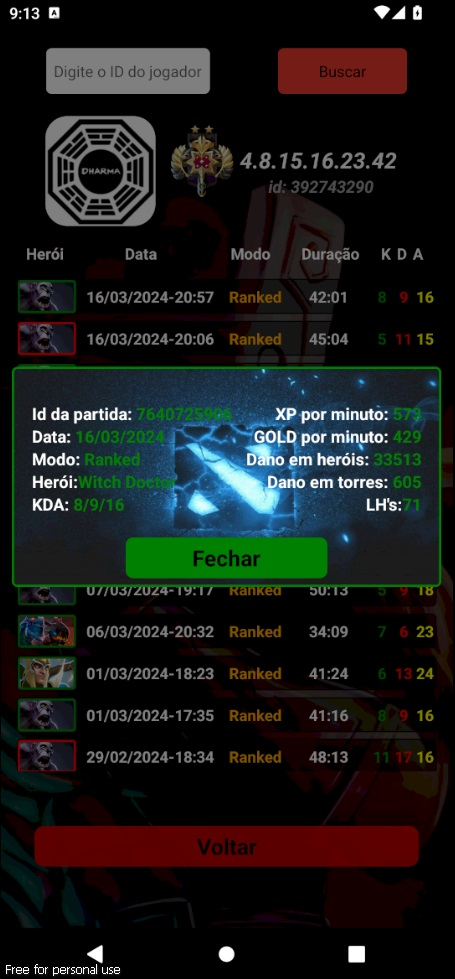
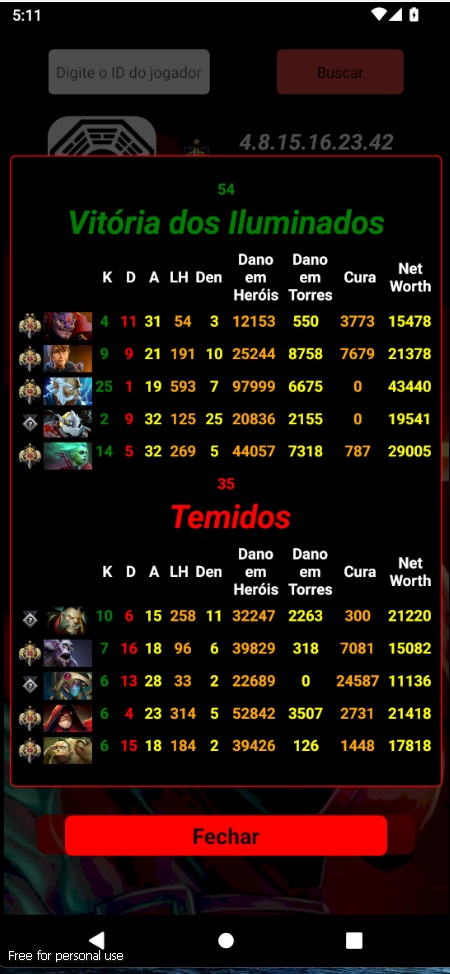
adicionando verificação na chamada da API

diff --git a/src/components/Modals/ModalDestacarPartida.tsx b/src/components/Modals/ModalDestacarPartida.tsx
@@ -11,16 +11,13 @@ const heroesList = HeroesList();
 
 export function ModalDestacarPartida(
     {
-        handleClose, id, data, modo, heroi, kills, deaths, assists, xp, gold, heroDamage, towerDamage, lhs, resultadoFinal, duracao, hora }:
+        handleClose, id, heroi, resultadoFinal }:
         {
-            handleClose(): void, id: string, data: string, modo: string, heroi: number, kills: number, deaths: number, assists: number,
-            xp: number, gold: number, heroDamage: number, towerDamage: number, lhs: number, resultadoFinal: boolean, duracao: string, hora: string
+            handleClose(): void, id: string, heroi: number, resultadoFinal: boolean,
         }) {
 
-    const heroName = HeroesList().find(hero => hero.id == heroi)?.localized_name
-
-
     const [matchDetails, setMatchDetails] = useState<MatchDetailsModel | null>(null);
+    const [loading, setLoading] = useState(true);
 
     useEffect(() => {
         async function fetchData() {
@@ -29,9 +26,11 @@ export function ModalDestacarPartida(
                 setMatchDetails(recentMatchesDataResponse ?? null);
             } catch (error) {
                 console.error('Erro ao buscar detalhes da partida:', error);
+                setTimeout(handleClose, 3000);
+            } finally {
+                setLoading(false);
             }
         }
-
         fetchData();
     }, [id]);
 
@@ -42,23 +41,23 @@ export function ModalDestacarPartida(
             <View
                 style={{ alignItems: "center" }}
             >
-                <Text style={{ color: "#fff", fontWeight: "bold" }}>{item.radiant_score}</Text>
+                <Text style={{ color: "green", fontWeight: "bold" }}>{item.radiant_score}</Text>
 
-                {item.radiant_win ? <Text style={styles.title}>Vitória dos Iluminados</Text> : <Text style={styles.title}> Iluminados</Text>}
+                {item.radiant_win ? <Text style={[styles.title, { color: "green" }]}>Vitória dos Iluminados</Text> : <Text style={[styles.title, { color: "green" }]}> Iluminados</Text>}
 
                 <View style={{ width: "20%" }} />
                 <View
                     style={styles.cabecalho}
                 >
-                    <Text style={{ color: "#fff", width: '7%', textAlign: "center", fontWeight: "bold" }}>K</Text>
-                    <Text style={{ color: "#fff", width: '7%', textAlign: "center", fontWeight: "bold" }}>D</Text>
-                    <Text style={{ color: "#fff", width: '7%', textAlign: "center", fontWeight: "bold" }}>A</Text>
-                    <Text style={{ color: "#fff", width: '8%', textAlign: "center", fontWeight: "bold" }}>LH</Text>
-                    <Text style={{ color: "#fff", width: '10%', textAlign: "center", fontWeight: "bold" }}>Den</Text>
-                    <Text style={{ color: "#fff", width: '18%', textAlign: "center", fontWeight: "bold" }}>Dano H</Text>
-                    <Text style={{ color: "#fff", width: '15%', textAlign: "center", fontWeight: "bold" }}>Dano T</Text>
-                    <Text style={{ color: "#fff", width: '15%', textAlign: "center", fontWeight: "bold" }}>Cura</Text>
-                    <Text style={{ color: "#fff", width: '15%', textAlign: "center", fontWeight: "bold" }}>Net</Text>
+                    <Text style={[styles.cabecalhoText, { width: '7%' }]}>K</Text>
+                    <Text style={[styles.cabecalhoText, { width: '7%' }]}>D</Text>
+                    <Text style={[styles.cabecalhoText, { width: '7%' }]}>A</Text>
+                    <Text style={[styles.cabecalhoText, { width: '8%' }]}>LH</Text>
+                    <Text style={[styles.cabecalhoText, { width: '10%' }]}>Den</Text>
+                    <Text style={[styles.cabecalhoText, { width: '18%' }]}>Dano Heróis</Text>
+                    <Text style={[styles.cabecalhoText, { width: '15%' }]}>Dano Torres</Text>
+                    <Text style={[styles.cabecalhoText, { width: '15%' }]}>Cura</Text>
+                    <Text style={[styles.cabecalhoText, { width: '15%' }]}>Net Worth</Text>
                 </View>
                 {radiant.map((player, index) => {
 
@@ -115,23 +114,23 @@ export function ModalDestacarPartida(
             <View
                 style={{ alignItems: "center" }}
             >
-                <Text style={{ color: "#fff", fontWeight: "bold" }}>{item.dire_score}</Text>
-                {!item.radiant_win ? <Text style={styles.title}>Vitória dos Temidos</Text> : <Text style={styles.title}> Temidos</Text>}
+                <Text style={{ color: "red", fontWeight: "bold" }}>{item.dire_score}</Text>
+                {!item.radiant_win ? <Text style={[styles.title, { color: "red" }]}>Vitória dos Temidos</Text> : <Text style={[styles.title, { color: "red" }]}> Temidos</Text>}
 
 
                 <View style={{ width: "20%" }} />
                 <View
                     style={styles.cabecalho}
                 >
-                    <Text style={{ color: "#fff", width: '7%', textAlign: "center", fontWeight: "bold" }}>K</Text>
-                    <Text style={{ color: "#fff", width: '7%', textAlign: "center", fontWeight: "bold" }}>D</Text>
-                    <Text style={{ color: "#fff", width: '7%', textAlign: "center", fontWeight: "bold" }}>A</Text>
-                    <Text style={{ color: "#fff", width: '8%', textAlign: "center", fontWeight: "bold" }}>LH</Text>
-                    <Text style={{ color: "#fff", width: '10%', textAlign: "center", fontWeight: "bold" }}>Den</Text>
-                    <Text style={{ color: "#fff", width: '18%', textAlign: "center", fontWeight: "bold" }}>Dano H</Text>
-                    <Text style={{ color: "#fff", width: '15%', textAlign: "center", fontWeight: "bold" }}>Dano T</Text>
-                    <Text style={{ color: "#fff", width: '15%', textAlign: "center", fontWeight: "bold" }}>Cura</Text>
-                    <Text style={{ color: "#fff", width: '15%', textAlign: "center", fontWeight: "bold" }}>Net</Text>
+                    <Text style={[styles.cabecalhoText, { width: '7%' }]}>K</Text>
+                    <Text style={[styles.cabecalhoText, { width: '7%' }]}>D</Text>
+                    <Text style={[styles.cabecalhoText, { width: '7%' }]}>A</Text>
+                    <Text style={[styles.cabecalhoText, { width: '8%' }]}>LH</Text>
+                    <Text style={[styles.cabecalhoText, { width: '10%' }]}>Den</Text>
+                    <Text style={[styles.cabecalhoText, { width: '18%' }]}>Dano Heróis</Text>
+                    <Text style={[styles.cabecalhoText, { width: '15%' }]}>Dano Torres</Text>
+                    <Text style={[styles.cabecalhoText, { width: '15%' }]}>Cura</Text>
+                    <Text style={[styles.cabecalhoText, { width: '15%' }]}>Net Worth</Text>
                 </View>
                 {radiant.map((player, index) => {
 
@@ -181,39 +180,51 @@ export function ModalDestacarPartida(
         );
     };
 
-
-
-
-
     return (
         <View style={styles.container}>
 
-            <View
-                style={(resultadoFinal == true) ? styles.modal : [styles.modal, { borderColor: "red" }]}
+            {loading ? (<View
+                style={styles.carregandoContent}
             >
-                <View
-                    style={styles.modalContent}>
-                    <FlatList
-                        data={matchDetails ? [matchDetails] : []}
-                        renderItem={renderItemIluminados}
-                        keyExtractor={(item) => item.match_id.toString()}
-                    />
-                    <FlatList
-                        data={matchDetails ? [matchDetails] : []}
-                        renderItem={renderItemTemidos}
-                        keyExtractor={(item) => item.match_id.toString()}
-                    />
+                <Text
+                    style={styles.carregando}
+                >Carregando dados...</Text>
+            </View>) : (
 
-                </View>
+                matchDetails ? (<View
+                    style={(resultadoFinal == true) ? styles.modal : [styles.modal, { borderColor: "red" }]}
+                >
+                    <View
+                        style={styles.modalContent}>
+                        <FlatList
+                            data={matchDetails ? [matchDetails] : []}
+                            renderItem={renderItemIluminados}
+                            keyExtractor={(item) => item.match_id.toString()}
+                        />
+                        <FlatList
+                            data={matchDetails ? [matchDetails] : []}
+                            renderItem={renderItemTemidos}
+                            keyExtractor={(item) => item.match_id.toString()}
+                        />
+                    </View>
+                    <TouchableOpacity
+                        onPress={() => handleClose()}
+                        style={resultadoFinal ? styles.button : [styles.button, { backgroundColor: "red" }]}>
+                        <Text
+                            style={styles.textButton}
+                        >Fechar</Text>
+                    </TouchableOpacity>
+                </View>) : (
+                    <View
+                        style={styles.carregandoContent}
+                    >
+                        <Text
+                            style={styles.carregando}
+                        >Erro ao carregar dados da partida!</Text>
+                    </View>
+                )
 
-                <TouchableOpacity
-                    onPress={() => handleClose()}
-                    style={resultadoFinal ? styles.button : [styles.button, { backgroundColor: "red" }]}>
-                    <Text
-                        style={styles.textButton}
-                    >Fechar</Text>
-                </TouchableOpacity>
-            </View>
+            )}
         </View>
 
     );

diff --git a/src/routes/stack.routes.tsx b/src/routes/stack.routes.tsx
@@ -1,4 +1,4 @@
-import { createStackNavigator } from "@react-navigation/stack";
+import { TransitionPresets, createStackNavigator } from "@react-navigation/stack";
 
 const { Screen, Navigator } = createStackNavigator();
 
@@ -16,42 +16,48 @@ export function StackRoutes() {
                 name="home"
                 component={Home}
                 options={{
-                    headerShown: false
+                    headerShown: false,
+                    ...TransitionPresets.SlideFromRightIOS
                 }}
             />
             <Screen
                 name="buscarPartidasPorId"
                 component={BuscarPartidasPorId}
                 options={{
-                    headerShown: false
+                    headerShown: false,
+                    ...TransitionPresets.SlideFromRightIOS
                 }}
             />
             <Screen
                 name='buscarPlayers'
                 component={BuscarPlayers}
                 options={{
-                    headerShown: false
+                    headerShown: false,
+                    ...TransitionPresets.SlideFromRightIOS
                 }}
             />
             <Screen
                 name="buscarProPlayers"
                 component={BuscarProPlayers}
                 options={{
-                    headerShown: false
+                    headerShown: false,
+                    ...TransitionPresets.SlideFromRightIOS
                 }}
             />
             <Screen
                 name='heroisMaisJogados'
                 component={HeroisMaisJogados}
                 options={{
-                    headerShown: false
+                    headerShown: false,
+                    ...TransitionPresets.SlideFromRightIOS
                 }}
             />
             <Screen
                 name='listaDeHerois'
                 component={ListaDeHerois}
                 options={{
-                    headerShown: false
+                    headerShown: false,
+                    ...TransitionPresets.SlideFromRightIOS
                 }}
             />
         </Navigator>

diff --git a/src/screens/BuscarPlayers/index.tsx b/src/screens/BuscarPlayers/index.tsx
@@ -126,10 +126,10 @@ export function BuscarPlayers({ navigation }: any) {
                     setModalVisible(true)
                 }}
                 key={index}
-                style={resultadoFinal ? styles.listContainer : [styles.listContainer, { backgroundColor: "rgba(255,0,0,0.4)" }]}
+                style={styles.listContainer}
             >
                 <Image
-                    style={styles.imageHero}
+                    style={resultadoFinal ? styles.imageHero : ([styles.imageHero, { borderColor: 'red' }])}
                     source={{
                         uri: imgSource
                     }}
@@ -160,7 +160,7 @@ export function BuscarPlayers({ navigation }: any) {
 
         <View style={styles.container}>
             <Image
-                style={{ position: 'absolute', opacity: 0.5 }}
+                style={{ position: 'absolute', opacity: 0.9 }}
                 source={
                     require('../../images/playerWallpaper.webp')
                 }
@@ -256,20 +256,8 @@ export function BuscarPlayers({ navigation }: any) {
                 <ModalDestacarPartida
                     handleClose={() => setModalVisible(false)}
                     id={matchIndex.id}
-                    data={matchIndex.data}
-                    modo={matchIndex.modo}
                     heroi={matchIndex.heroi}
-                    kills={matchIndex.kills}
-                    deaths={matchIndex.deaths}
-                    assists={matchIndex.assists}
-                    xp={matchIndex.xp}
-                    gold={matchIndex.gold}
-                    heroDamage={matchIndex.heroDamage}
-                    towerDamage={matchIndex.towerDamage}
-                    lhs={matchIndex.lhs}
                     resultadoFinal={matchIndex.resultadoFinal}
-                    duracao={matchIndex.duracao}
-                    hora={matchIndex.hora}
                 />
             </Modal>
         </View>

diff --git a/src/components/Modals/ModalDestacarPartidaStyles.tsx b/src/components/Modals/ModalDestacarPartidaStyles.tsx
@@ -3,10 +3,24 @@ import { StyleSheet } from 'react-native';
 export const styles = StyleSheet.create({
     container: {
         flex: 1,
-        backgroundColor: "rgba(0,0,0,0.5)",
+        backgroundColor: "rgba(0,0,0,0.7)",
         justifyContent: 'center',
         alignItems: 'center',
-
+    },
+    carregandoContent: {
+        backgroundColor: "#000",
+        width: '85%',
+        height: 90,
+        justifyContent: 'center',
+        borderWidth: 1,
+        borderColor: "#fff",
+        borderRadius: 5
+    },
+    carregando: {
+        color: "#fff",
+        fontSize: 30,
+        textAlign: 'center',
+        fontWeight: 'bold'
     },
     modal: {
         backgroundColor: "#000",
@@ -14,19 +28,18 @@ export const styles = StyleSheet.create({
         borderRadius: 5,
         borderWidth: 1,
         borderColor: "green",
-
     },
     modalContent: {
         top: 20,
     },
     button: {
-        top: 40,
+        top: 65,
         alignSelf: "center",
         alignItems: "center",
         padding: 5,
         backgroundColor: "green",
         borderRadius: 7,
-        width: "50%"
+        width: "75%"
     },
     textButton: {
         color: "#000",
@@ -48,13 +61,12 @@ export const styles = StyleSheet.create({
     },
     radiantContainer: {
         flexDirection: "row",
-
     },
     title: {
         fontSize: 30,
         color: "#fff",
         fontStyle: "italic",
-        fontWeight: "bold"
+        fontWeight: "bold",
     },
     cabecalho: {
         flexDirection: "row",
@@ -62,6 +74,12 @@ export const styles = StyleSheet.create({
         width: "80%",
         alignSelf: "flex-end",
         padding: 5
+    },
+    cabecalhoText: {
+        color: "#fff",
+        textAlign: "center",
+        fontWeight: "bold",
+        alignSelf: "flex-end"
     },
     imageHero: {
         width: 45,

diff --git a/src/screens/BuscarPlayers/styles.tsx b/src/screens/BuscarPlayers/styles.tsx
@@ -84,7 +84,9 @@ export const styles = StyleSheet.create({
         width: 53,
         height: 30,
         resizeMode: "contain",
-        borderRadius: 3
+        borderRadius: 3,
+        borderWidth: 2,
+        borderColor: "green"
     },
     imageHeroD: {
         borderColor: "red"
@@ -101,8 +103,9 @@ export const styles = StyleSheet.create({
         width: "100%",
         padding: 1,
         borderRadius: 3,
+        borderWidth: 1,
         marginVertical: 3,
-        backgroundColor: "rgba(0,255,0,0.4)",
+        backgroundColor: "rgba(0,0,0,0.7)",
     },
 
     listTitle: {

diff --git a/README.md b/README.md
@@ -1,5 +1,6 @@
-![Home](https://github.com/Emerson2342/dota2/blob/main/assets/Sem%20t%C3%ADtulo.jpg)
+![Home](https://github.com/Emerson2342/dota2/blob/main/assets/home.jpg)
 ![Detalhe Jogador](https://github.com/Emerson2342/dota2/blob/main/assets/player.jpg)
+![Carregando Dados](https://github.com/Emerson2342/dota2/blob/main/assets/carregando.jpg)
 ![Detalhe Partida](https://github.com/Emerson2342/dota2/blob/main/assets/matchDetails.jpg)
 ![Heróis](https://github.com/Emerson2342/dota2/blob/main/assets/herois.jpg)
 ![Detalhe Heróis](https://github.com/Emerson2342/dota2/blob/main/assets/heroDetails.jpg)
